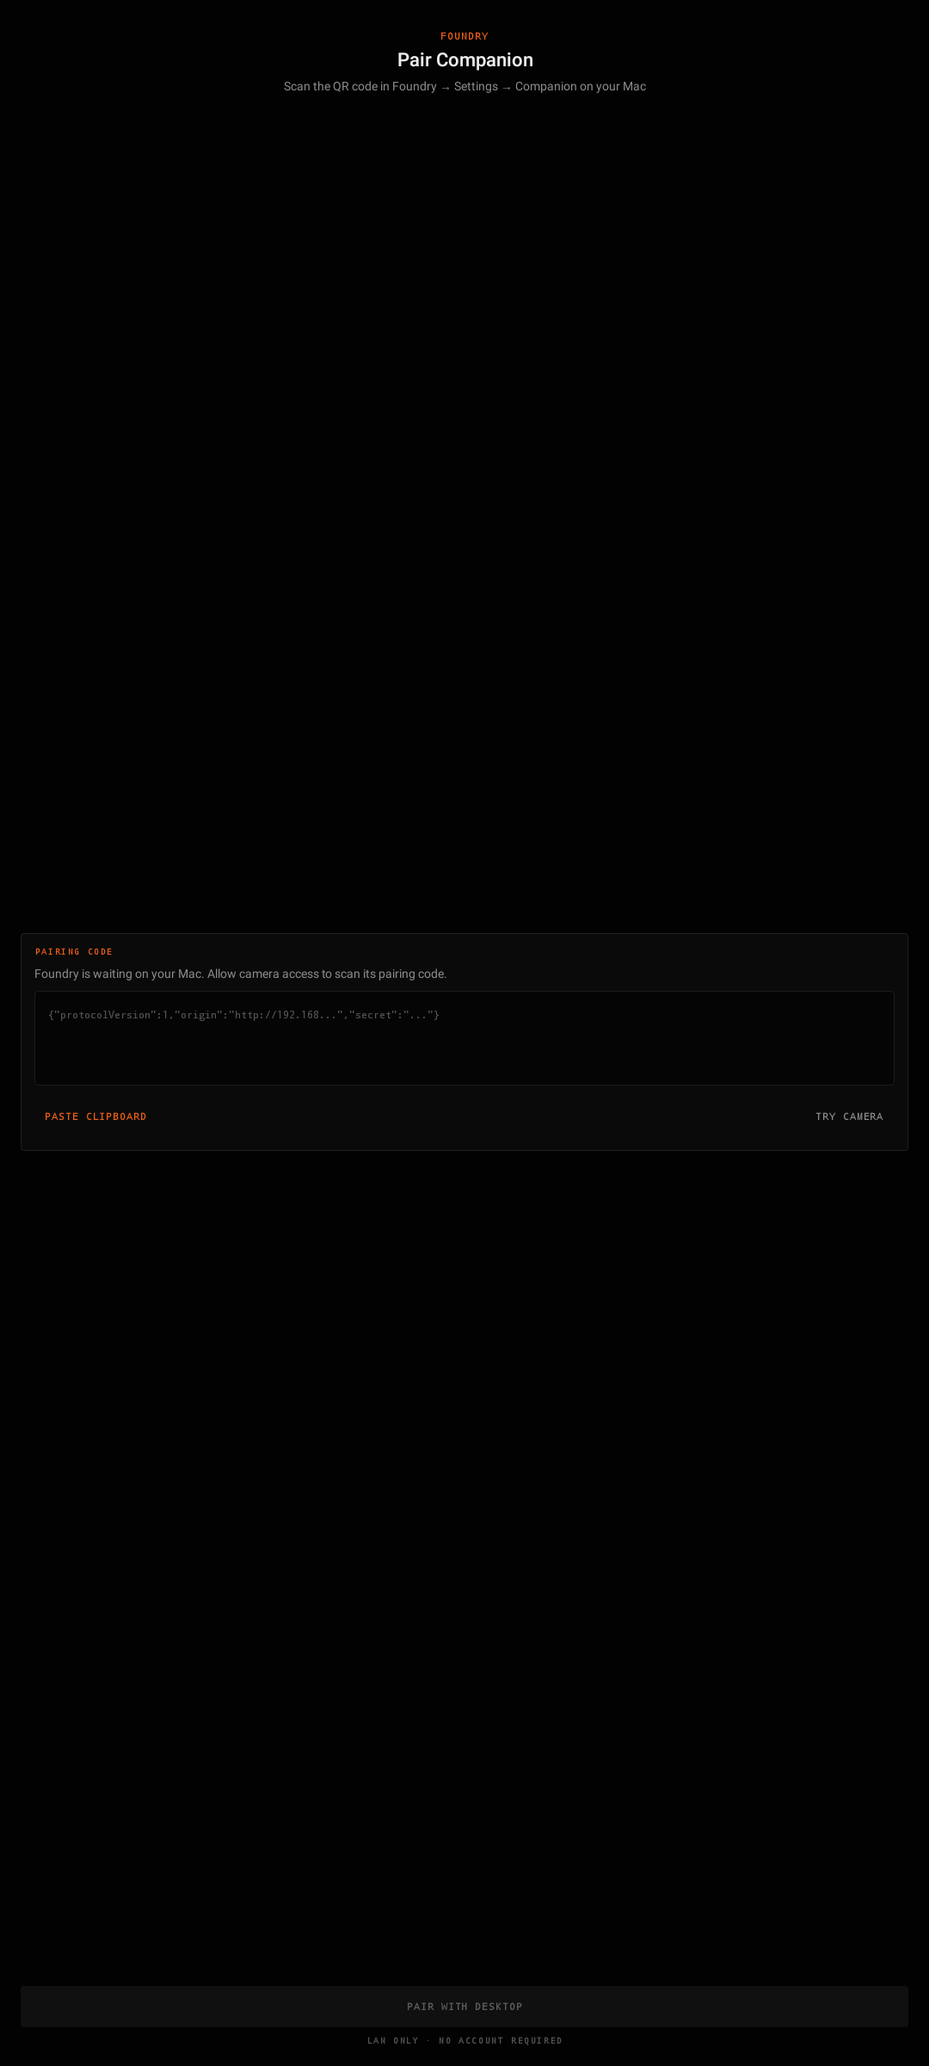
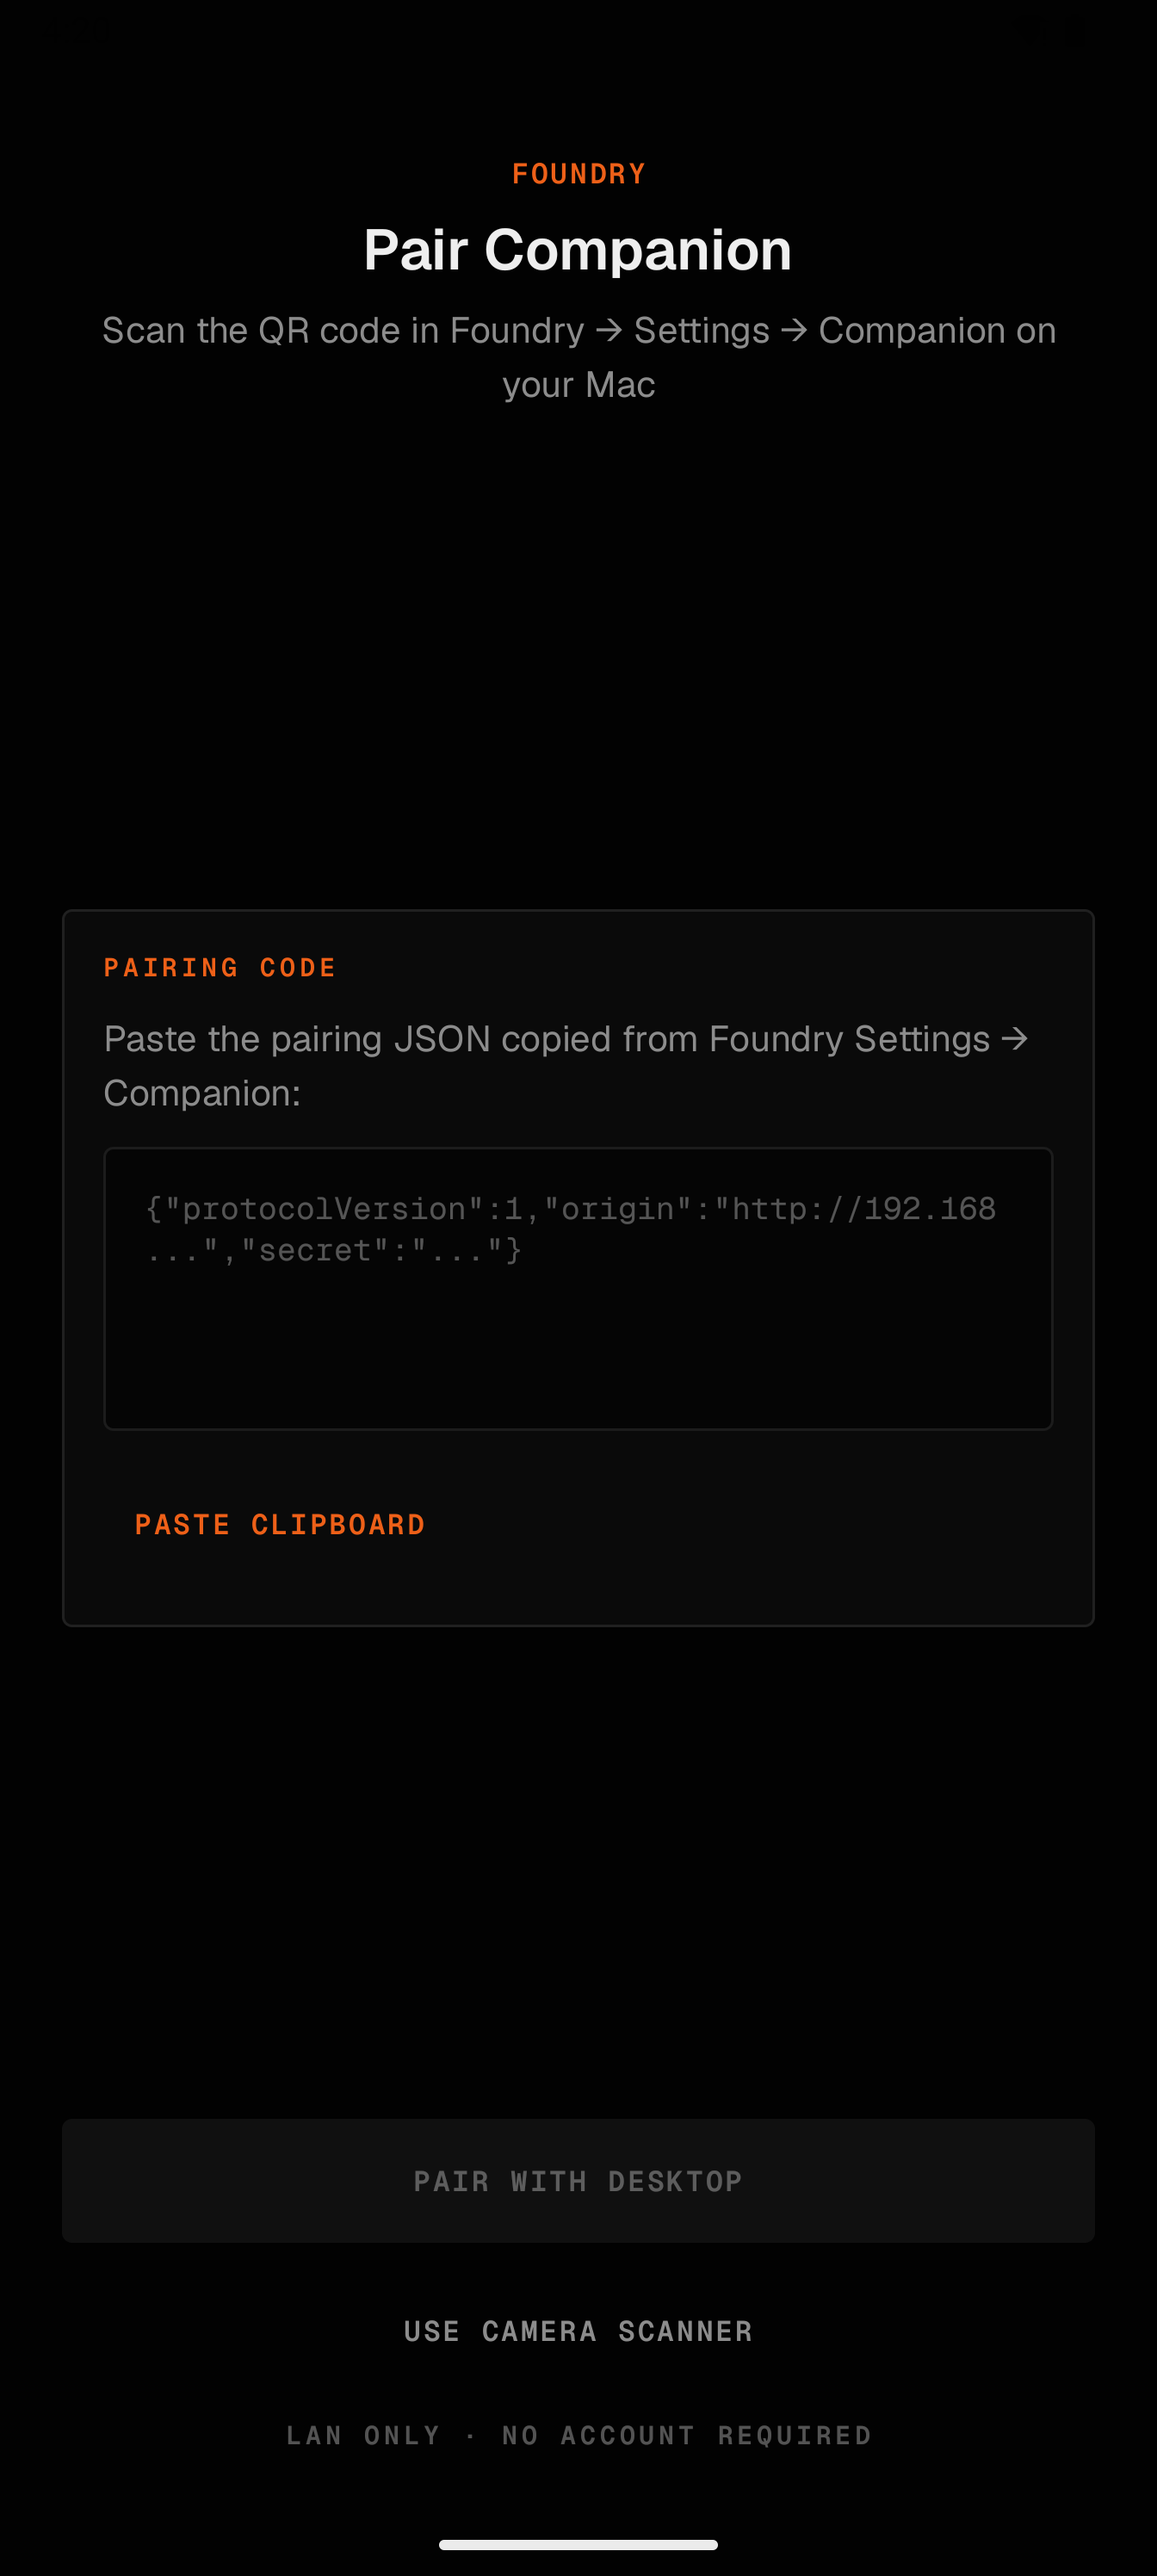
[website] recapture companion shots on a Pixel 10 Pro XL AVD
adb screencap from an official pixel_10_pro_xl hardware profile
(1344×2992 @ 480 dpi) so the gallery is a real Pro XL framebuffer,
not a 1080×2400 Robolectric crop inside a CSS bezel.

diff --git a/apps/website/src/components/sections/Galleries.tsx b/apps/website/src/components/sections/Galleries.tsx
@@ -135,9 +135,8 @@ export function AppGallery() {
 
 /* ── the phone ─────────────────────────────────────────────────────────────
  * Pixel 10 Pro XL front: 162.8 × 76.6 mm body, 6.8" 20:9 (1344 × 2992),
- * ~88% screen-to-body, even bezels, centred punch-hole. The previous stage
- * was 1080×1000 — a foldable inner display — which is why it read as a
- * folding phone. Captures are the raw 1080×2400 (9:20) Android screenshots.
+ * even ~2.7 mm bezels, centred punch-hole. Shots are adb screencaps from a
+ * Pixel_10_Pro_XL AVD (hw.lcd 1344×2992 @ 480 dpi), not a 1080×1000 crop.
  */
 
 export function PhoneGallery() {
@@ -165,8 +164,8 @@ export function PhoneGallery() {
               key={s.file}
               src={`/media/phone/${s.file}.webp`}
               alt={`Foundry companion — ${s.name}`}
-              width={540}
-              height={1200}
+              width={672}
+              height={1496}
               loading={i === 0 ? 'eager' : 'lazy'}
               className={`absolute inset-0 h-full w-full object-cover object-top transition-opacity duration-slow ease-mech ${
                 i === selected ? 'opacity-100' : 'opacity-0'
@@ -227,20 +226,18 @@ function Pixel10ProXL({ children }: { children: ReactNode }) {
         />
 
         <div
-          className="absolute flex flex-col overflow-hidden bg-black"
-          style={{ inset: '3.7%', borderRadius: '11.2% / 5.3%' }}
+          className="absolute overflow-hidden bg-black"
+          style={{ inset: '1.63% 3.72%', borderRadius: '11.2% / 5.3%' }}
         >
-          <div className="relative h-[3.8%] shrink-0">
-            <span
-              aria-hidden="true"
-              className="absolute left-1/2 top-[18%] aspect-square w-[5.4%] -translate-x-1/2 rounded-full"
-              style={{
-                background: 'radial-gradient(circle at 38% 32%, #2c3548 0%, #0b0d12 58%, #000 100%)',
-                boxShadow: '0 0 0 1.5px #070707, 0 0 0 2.5px #1a1a1a',
-              }}
-            />
-          </div>
-          <div className="relative min-h-0 flex-1">{children}</div>
+          <div className="absolute inset-0">{children}</div>
+          <span
+            aria-hidden="true"
+            className="absolute left-1/2 top-[1.15%] z-[3] aspect-square w-[5.2%] -translate-x-1/2 rounded-full"
+            style={{
+              background: 'radial-gradient(circle at 38% 32%, #2c3548 0%, #0b0d12 58%, #000 100%)',
+              boxShadow: '0 0 0 1.5px #070707, 0 0 0 2.5px #1a1a1a',
+            }}
+          />
         </div>
       </figure>
     </div>

diff --git a/apps/website/README.md b/apps/website/README.md
@@ -142,10 +142,9 @@ hand-editing the WebP, and **check the frame for anything account-specific
 before committing** — the providers pane shows the signed-in account, so that
 capture was taken with the address replaced in the DOM first.
 
-`media-src/phone/*.png` are the Android captures from `../../screenshots`
-at the raw 1080×2400 (9:20). That is the Pixel 10 Pro XL panel (1344×2992,
-20:9); a 1080×1000 crop reads as a foldable inner display, so the site
-renders them inside a 76.6×162.8 mm chassis rather than squaring the stage.
+`media-src/phone/*.png` are `adb screencap` frames from a Pixel 10 Pro XL
+AVD (`hw.lcd.width=1344`, `hw.lcd.height=2992`, 480 dpi). Recapture on that
+device profile; a 1080×1000 crop reads as a foldable inner display.
 
 `pr_writer` and `issue_writer` ship no portrait; the roster falls back to a
 tinted monogram for those two, which is deliberate rather than a missing file.
